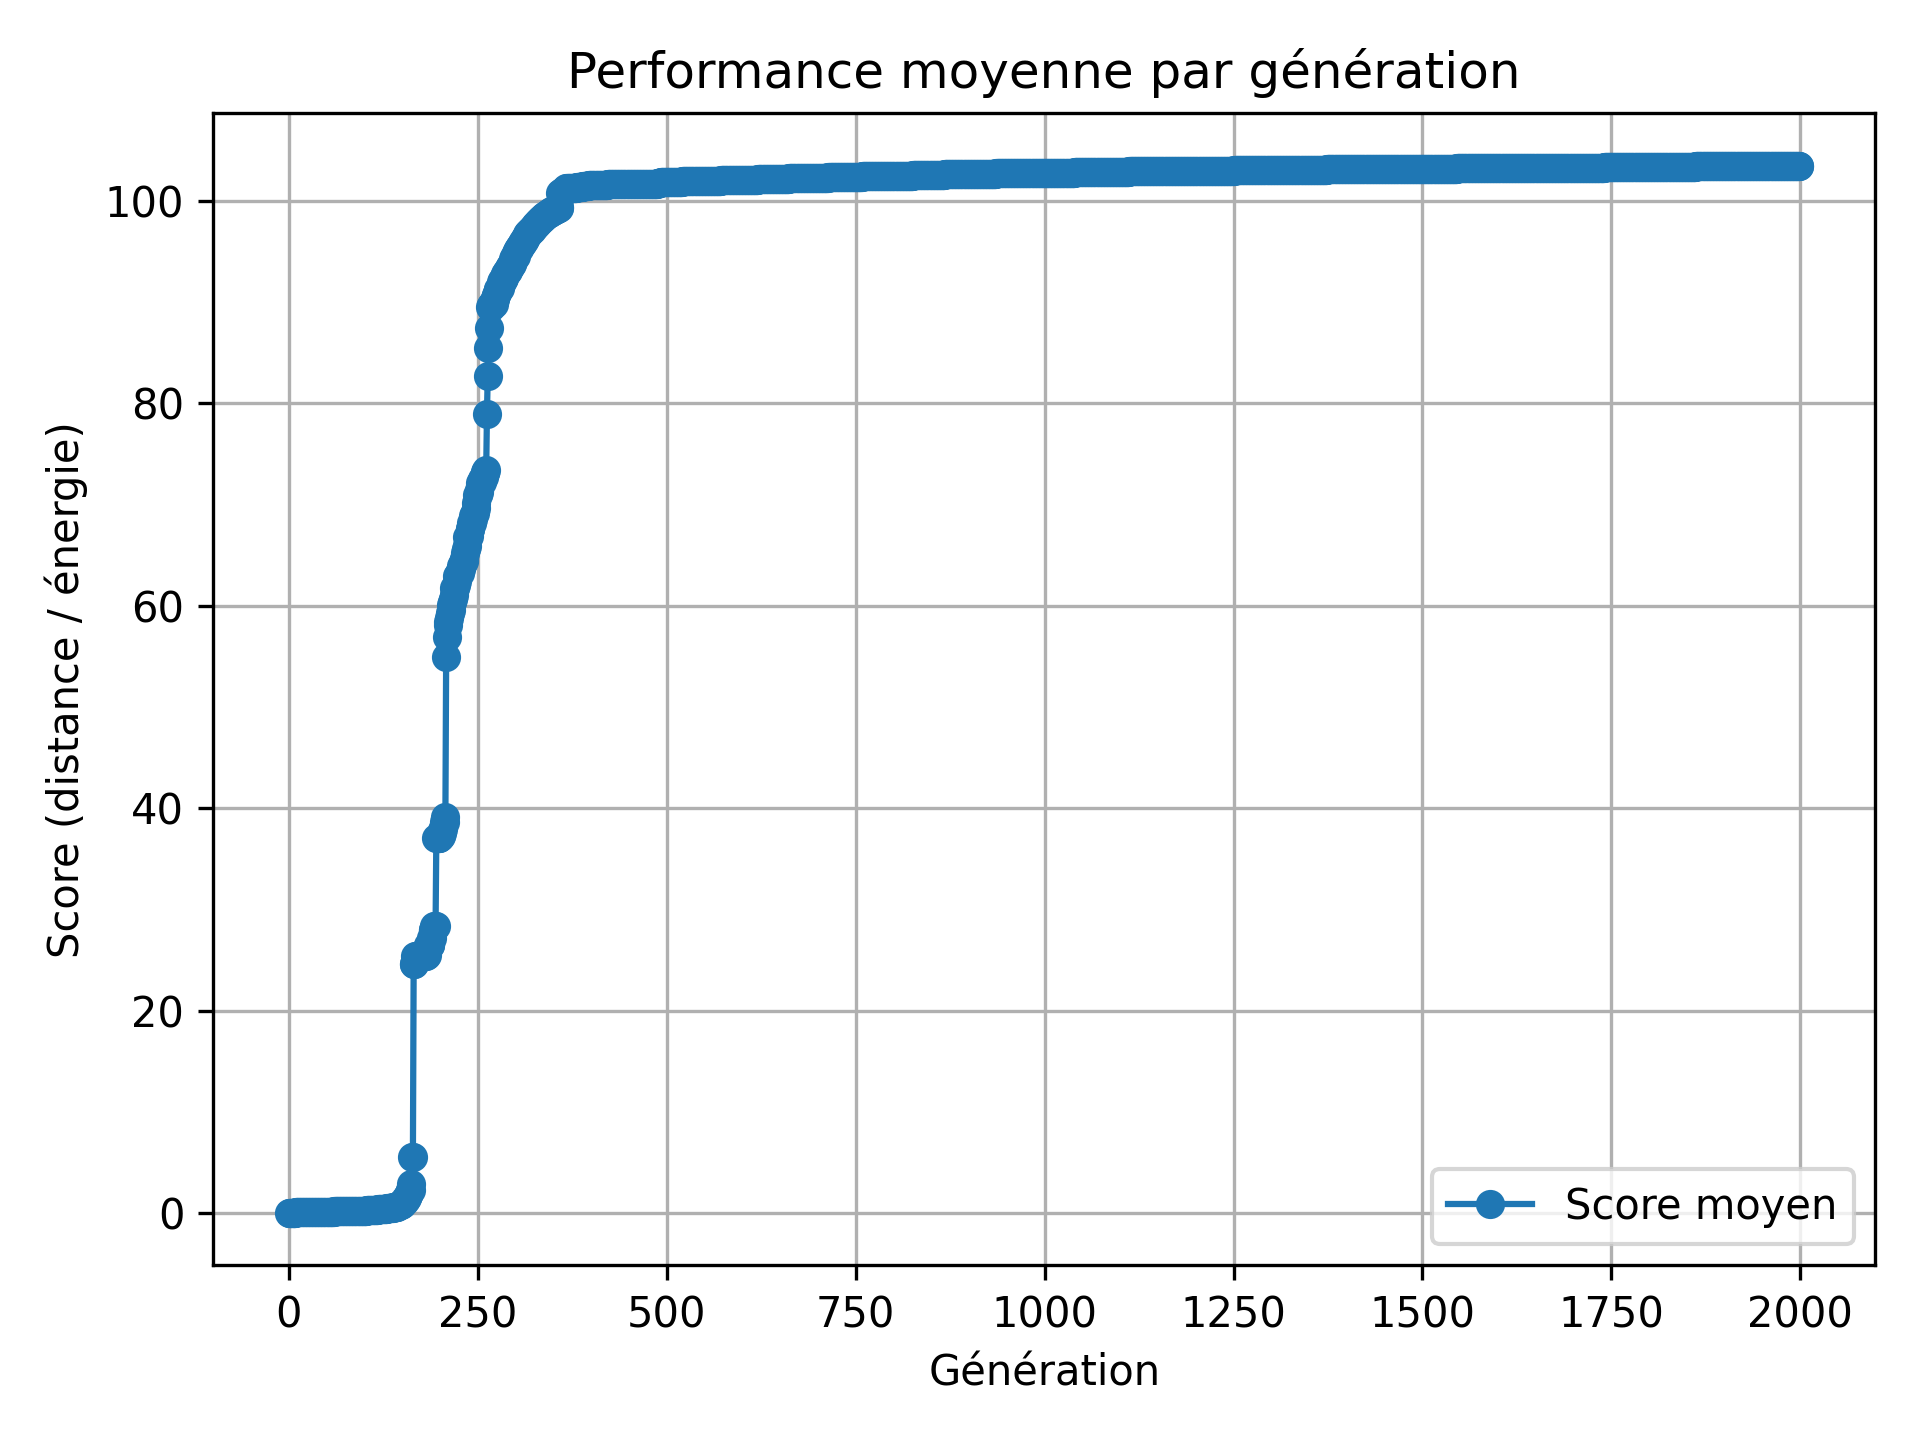
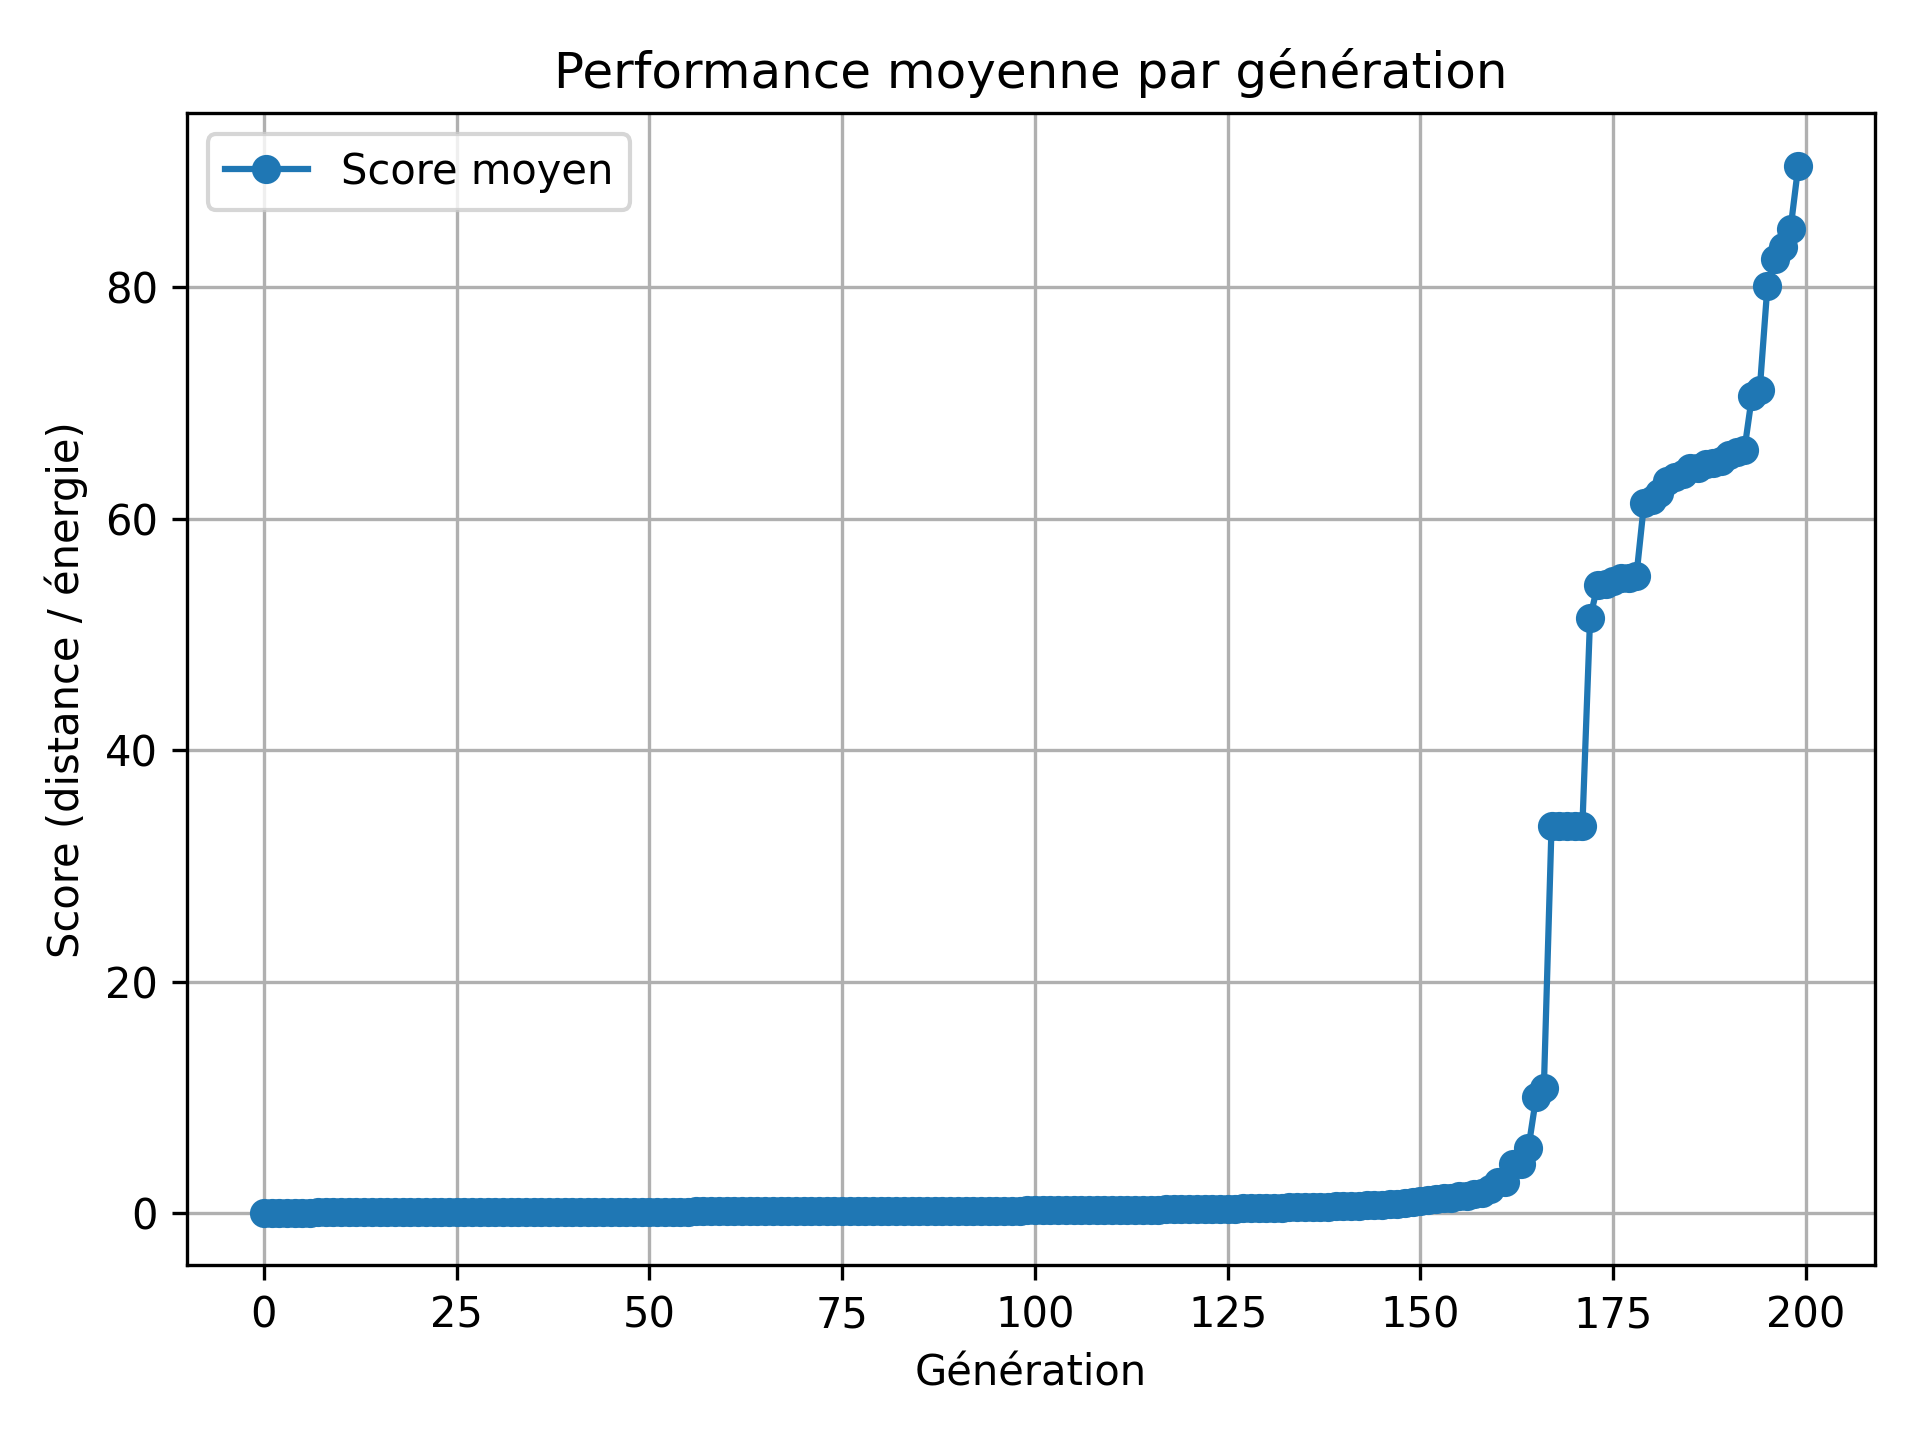
new genom

diff --git a/simulate_population.py b/simulate_population.py
@@ -27,7 +27,7 @@ minimal_genome = {
 n = 100
 dt = 0.0002
 steps = 1000
-generations = 2000
+generations = 200
 keep_fraction = 0.1
 mutation_strength = 0.01
 
